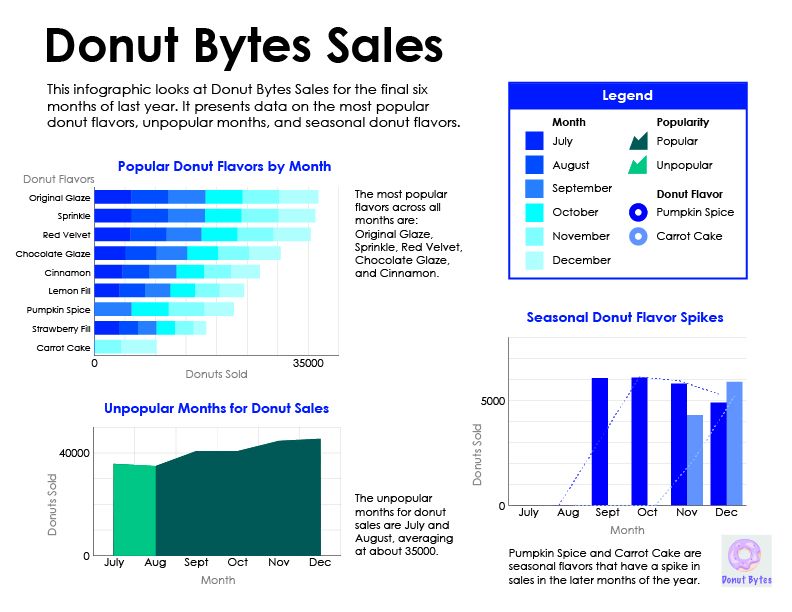
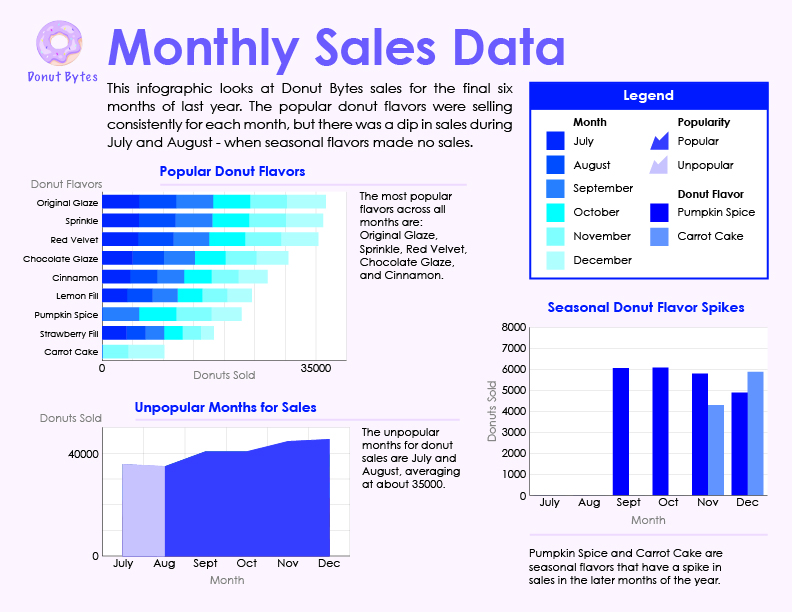
add woodblock and donutbytes updates

diff --git a/content/work/graphic/11_focus05.md b/content/work/graphic/11_focus05.md
@@ -1,0 +1,24 @@
+---
+index: 11
+weight: 1
+images:
+- /images/focus05.png
+title: Focus 05 Advertisement
+date: 2022-12-18
+tags:
+- archive # all posts
+- graphic
+---
+
+# Focus 05 Advertisement
+- Illustrator
+
+In my Design Thinking course, I completed a <a target="_blank" href="https://www.dropbox.com/s/j61v43zxqlqqxsf/2022.12.7_GRA%20280%20Project%20Process%20Book%20-%20Gomez.pdf?dl=0" style="color: var(--main);" onmouseover="this.style.color='var(--dark)'" onmouseout="this.style.color='var(--main)'">process book</a> where I conducted research on the target audience (millennials) and came up with a final design that was intended to be displayed in the advertisements of a subway car.
+
+I created a mood board and mind map for this process book and the image above is one of the final mockups I came up with. Image is taken from Unsplash.
+
+### Problem
+The previous Focus 05 advertisement had brought in more boomers than millennials to the restaurant.
+
+### Solution
+This design focuses on contemporary stylistic elements to attract the millennial audience. San-serif typefaces were used as well as colors that promote the earth and sustainable ingredients. The colors are bright and positive. The image displayed has younger people socializing and surrounded by technology.

diff --git a/content/work/graphic/6_woodblock_layout.md b/content/work/graphic/6_woodblock_layout.md
@@ -1,0 +1,16 @@
+---
+index: 6
+weight: 1
+images:
+- /images/woodblock-layout.png
+title: Wood-Block Printing Magazine Spread
+date: 2023-2-17
+tags:
+- graphic # homepage
+- archive # all posts
+---
+
+# Wood-Block Printing Magazine Spread
+- InDesign
+
+I created a two-page magazine spread from text and a graphic given in my Typography class. I layered many elements on page one into a wood-block print by Hokusai (my favorite art piece - the Great Wave of Kanagawa!). I bolded certain beginning sentences I thought provoked interest and statements that would keep the audience's attention. I gave a slightly textured background to page two to make the layout more interesting and connect to the image on page one.

diff --git a/content/work/graphic/5_donut-bytes-infographic.md b/content/work/graphic/5_donut-bytes-infographic.md
@@ -1,0 +1,16 @@
+---
+index: 5
+weight: 1
+images:
+- /images/donut-bytes-infographic.jpg
+title: Donut Bytes Sales Infographic
+date: 2023-1-26
+tags:
+- graphic # homepage
+- archive # all posts
+---
+
+# Donut Bytes Sales Infographic
+- Illustrator
+
+I created an infographic containing sales information in my Designing with Data course. I was given an excel data sheet to reference and tasked with creating a data story using Illustrator. I found three data points I wanted to convey and created a data visualization for Donut Bytes Sales. I was required to use one primary color and only tertiary colors of it.
